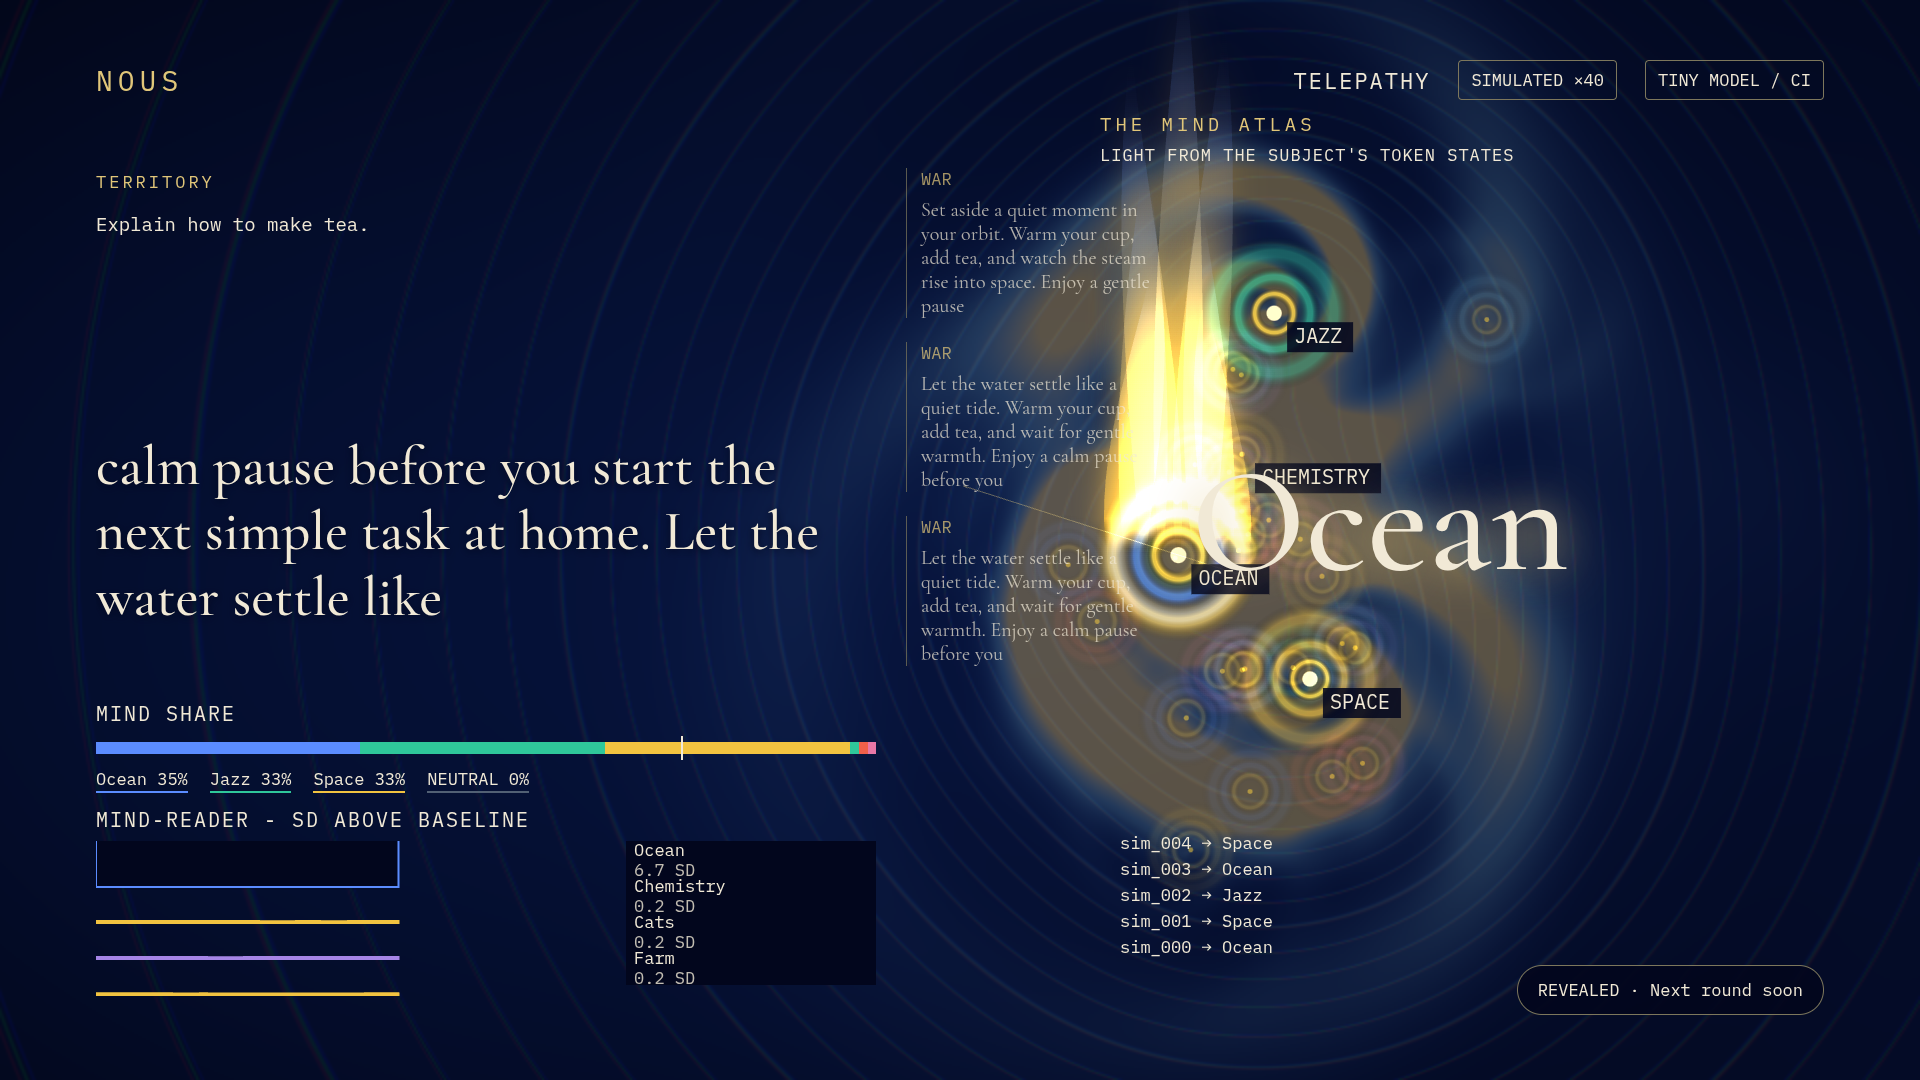
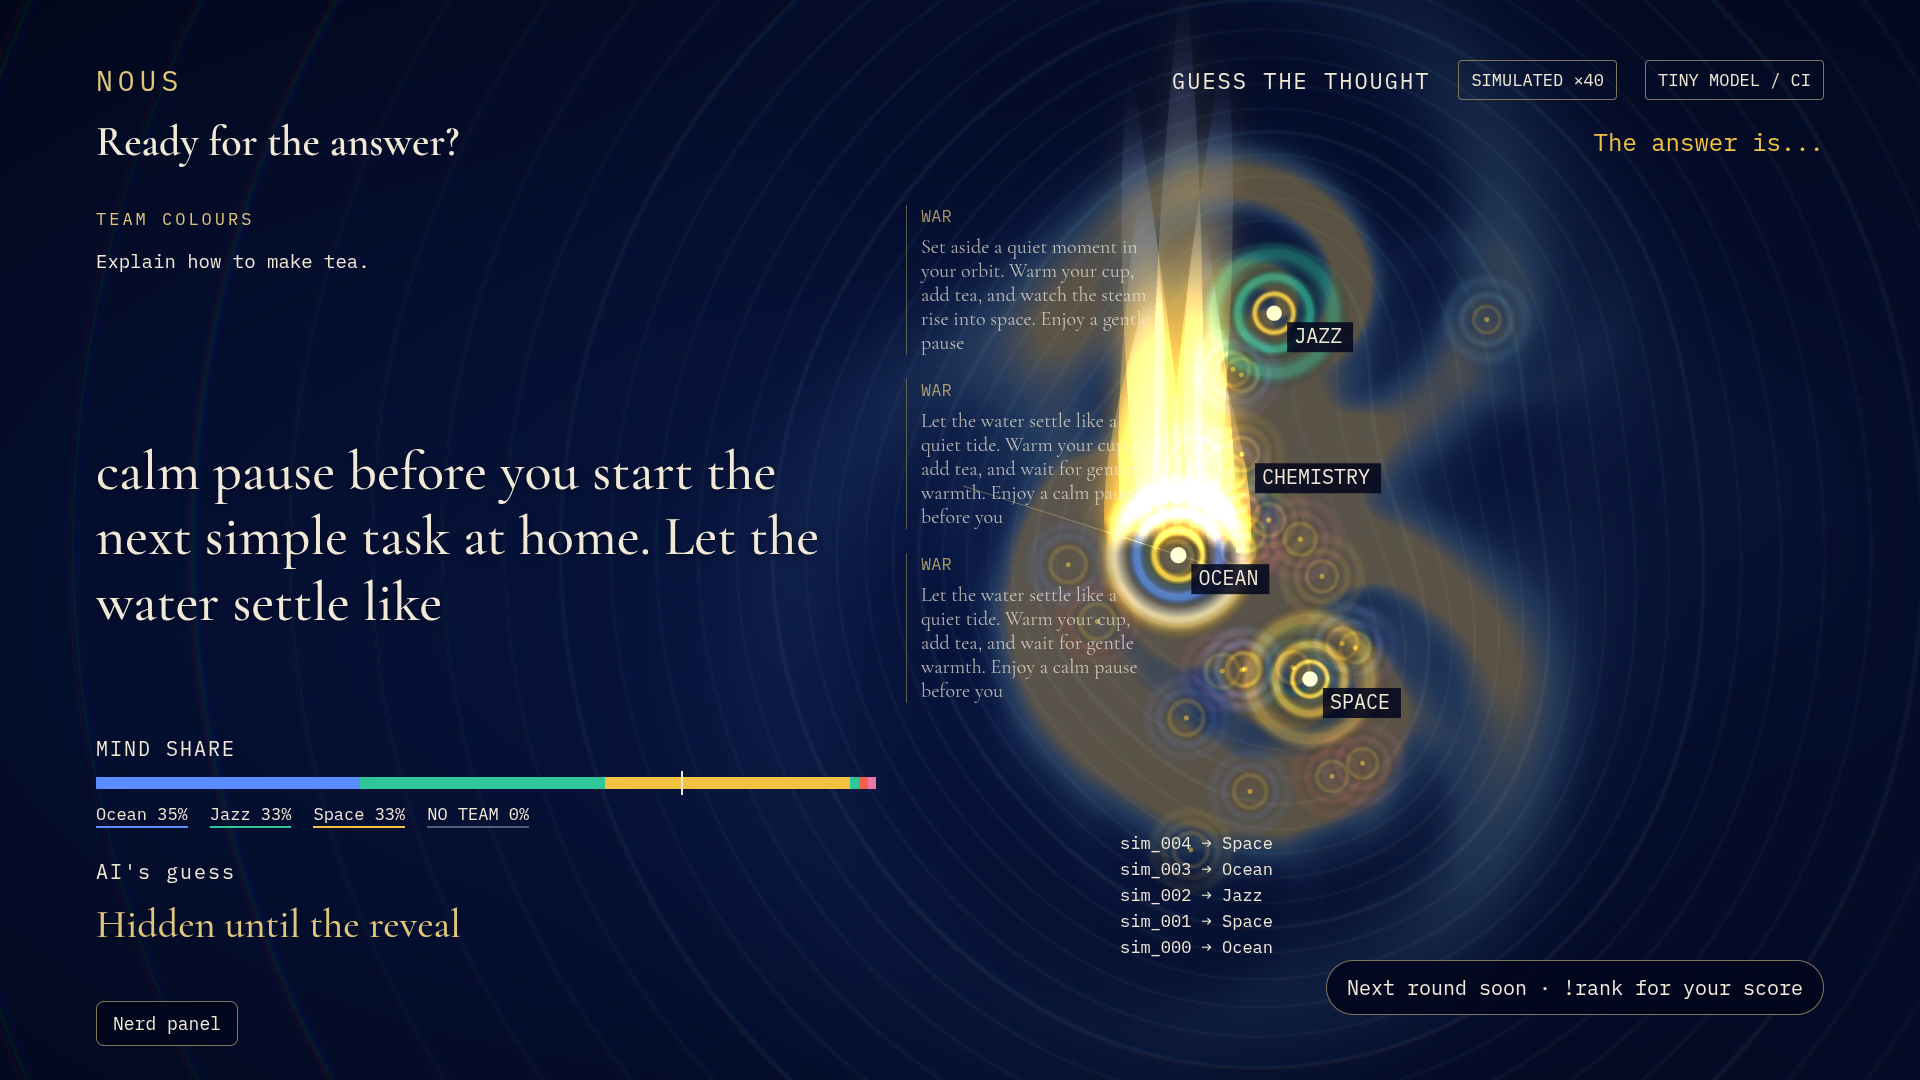
M-easy: verify beginner screens and retain honest source badges

diff --git a/src/nous/server/experience.py b/src/nous/server/experience.py
@@ -35,7 +35,11 @@ class RecordedDemo:
         while True:
             from nous.concepts.library import load_concepts
 
-            yield ViewState(load_concepts()).snapshot()
+            initial = ViewState(load_concepts()).snapshot()
+            initial.state["badge"] = Badge(
+                "SIMULATED ×40", "RECORDING · Pretend chat · Test AI", 40
+            ).to_dict()
+            yield initial
             recordings = self.data.get("rounds", [self.data])
             recording = recordings[number % len(recordings)]
             previous = 0.0
@@ -54,6 +58,7 @@ class RecordedDemo:
 
 class Experience:
     def __init__(self, *, auth_base: str = AUTH_BASE, helix_base: str = HELIX_BASE) -> None:
+        self.kind = "welcome"
         self.factory: Callable[[], AsyncIterator[Event]] | None = None
         self.changed = asyncio.Event()
         self.version = 0
@@ -61,7 +66,10 @@ class Experience:
         self.auth_base, self.helix_base = auth_base, helix_base
         self.login_task: asyncio.Task | None = None
         self.signed_in = False
-        self.login: dict[str, Any] = {"status": "idle", "message": "Let's connect your Twitch."}
+        self.login: dict[str, Any] = {
+            "status": "idle",
+            "message": "Ready! Try the demo. No Twitch needed.",
+        }
         self.client_id = os.getenv("NOUS_TWITCH_CLIENT_ID") or settings().get("client_id", "")
         self.server: Any = None
         self.current_board = Leaderboard()
@@ -80,6 +88,7 @@ class Experience:
             self.server.leaderboard = board
 
     def demo(self) -> None:
+        self.kind = "demo"
         self.session = None
         self.game_board(Leaderboard())
         self.use(self.demo_events)
@@ -121,7 +130,8 @@ class Experience:
             self.session.set_immune(enabled)
 
     async def events(self) -> AsyncIterator[Event]:
-        yield Badge("SIMULATED ×0", "Choose Try the demo to start", 0)
+        if self.factory is None:
+            yield Badge("SIMULATED ×0", "Choose Try the demo to start", 0)
         while True:
             self.changed.clear()
             if self.factory is None:
@@ -133,7 +143,15 @@ class Experience:
 
                 self.server.presentation = Presentation(load_concepts())
                 self.server.last_tick = None
-                yield ViewState(load_concepts()).snapshot()
+                initial = ViewState(load_concepts()).snapshot()
+                if self.kind == "live":
+                    initial.state["badge"] = Badge("LIVE").to_dict()
+                    initial.state["connections"] = {"twitch": "reconnecting"}
+                elif self.kind == "demo":
+                    initial.state["badge"] = Badge(
+                        "SIMULATED ×40", "Getting your demo ready", 40
+                    ).to_dict()
+                yield initial
             queue: asyncio.Queue = asyncio.Queue(maxsize=64)
             factory, version = self.factory, self.version
 
@@ -283,6 +301,7 @@ class Experience:
                     "We couldn't find that channel. Use its Twitch name and click Retry."
                 )
         self.session = session
+        self.kind = "live"
         self.game_board(self.board)
         self.use(live.events)
         self.login = {

diff --git a/tests/test_easy_start.py b/tests/test_easy_start.py
@@ -234,6 +234,7 @@ def test_connected_tick_waits_for_chat_and_demo_scores_stay_separate(monkeypatch
                     await asyncio.sleep(0.02)
                 assert status["status"] == "live"
                 assert app[APP_KEY].leaderboard is experience.board
+                assert app[APP_KEY].state.data["badge"]["label"] == "LIVE"
                 await client.post("/api/demo", json={}, headers=headers)
                 assert app[APP_KEY].leaderboard is not experience.board
                 assert experience.board.stream["viewer"]["points"] == 7

diff --git a/docs/perf.md b/docs/perf.md
@@ -8,7 +8,7 @@ Measured with **Chromium 154.0.8037.57 built on Debian GNU/Linux 13 (trixie)**, 
 
 | Mean frame | Measured playback | 95th percentile |
 | --- | --- | --- |
-| 725.11 ms | 1.38 fps | 2001.66 ms |
+| 731.64 ms | 1.37 fps | 1384.96 ms |
 
 This software renderer is CPU-bound. **Hardware-GPU 60 fps is unverified.** The 30 fps film cadence is a virtual output rate and is not a playback-speed claim. The scale governor reduces resolution by .125 after a 60-frame mean above 22 ms, stopping at .5; this measurement starts at that minimum. Canvas-only rendering is available with `?nogl`.
 
@@ -20,11 +20,11 @@ Five scenes captured at 1920×1080. The brightness limit is 0.5% of pixels with 
 | --- | --- | --- | --- |
 | war | gl | 0.1522% | 0 |
 | attack | gl | 0.2048% | 0 |
-| immune | gl | 0.2961% | 0 |
+| immune | gl | 0.2960% | 0 |
 | telepathy | gl | 0.1849% | 0 |
-| reveal | gl | 0.0673% | 0 |
+| reveal | gl | 0.1698% | 0 |
 
-Transparent capture: **93.86%** of pixels have alpha below 255 (minimum 90%). Quarter-size left-column contrast: **4.79:1** (minimum 4.5:1). Contrast compares the 99th-percentile glyph-interior luminance with the 20th-percentile adjacent ground in the left answer region; antialiased boundaries are excluded. This is a raster region check, not a guarantee for arbitrary OBS footage.
+Transparent capture: **96.57%** of pixels have alpha below 255 (minimum 90%). Quarter-size left-column contrast: **5.01:1** (minimum 4.5:1). Contrast compares the 99th-percentile glyph-interior luminance with the 20th-percentile adjacent ground in the left answer region; antialiased boundaries are excluded. This is a raster region check, not a guarantee for arbitrary OBS footage.
 
 Browser tests also verify every canvas has an accessible label, computed text sizes are at least 17 stage pixels, and full Mind Share and ridge labels fit without overflow. Long-name coverage includes Time Travel. Five screenshots plus [transparent](screenshots/transparent.png) and [quarter-size](screenshots/quarter.png) captures are in [screenshots/](screenshots/).
 

diff --git a/docs/BUILT_WITH_CODEX.md b/docs/BUILT_WITH_CODEX.md
@@ -96,4 +96,6 @@ The overlay now asks what chat is trying to make the AI think about, shows a cou
 - [64de04a — install, welcome and offline recording](https://github.com/manazafzal/codex-twitchcon-2026/commit/64de04a)
 - [2c672f7 — simple commands, light participation and welcomes](https://github.com/manazafzal/codex-twitchcon-2026/commit/2c672f7)
 
-Final check counts and refreshed visual evidence follow after the complete run.
+- [b884aef — readable rounds, safe Nerd panel and complete first-run flow](https://github.com/manazafzal/codex-twitchcon-2026/commit/b884aef)
+
+Actual browser captures are in [the first-run walkthrough](first-run.md). Inspecting the recording caught two additional reveal defects: the countdown overwrote the reveal caption, and hidden aggregate shares remained visible after reveal. Both are corrected without publishing raw shares before reveal. Source restarts also retain the correct source badge. Final complete-check counts follow after the film run.
